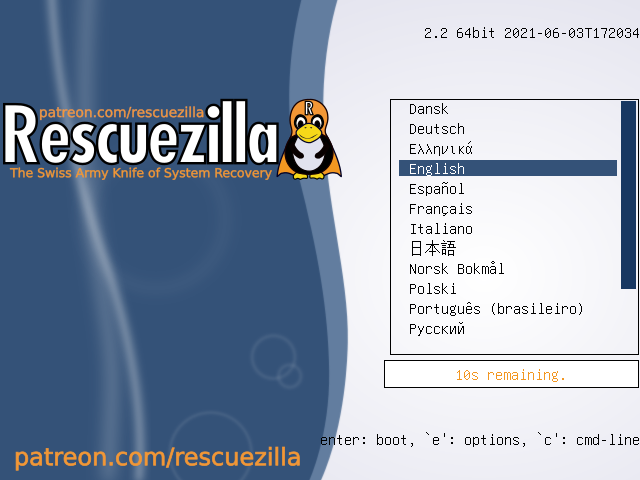
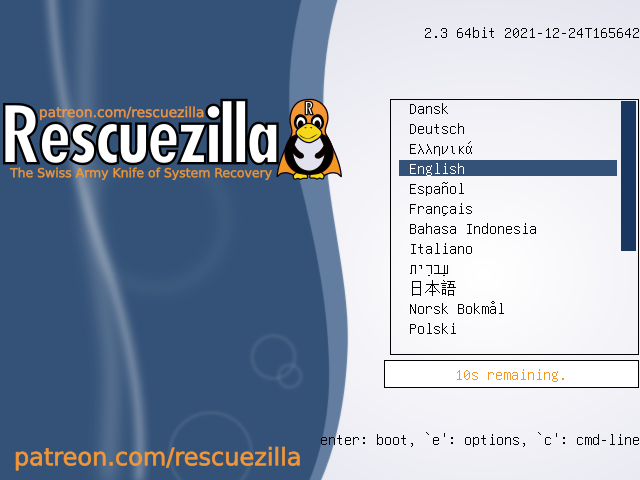
Updates webpage for Rescuezilla v2.3

diff --git a/download.html b/download.html
@@ -48,8 +48,8 @@
 <h2><strong>Getting Started</strong></h2>
 <div class="faq rounded">
 <h3>1. Download the latest live image</h3>
-<p>Download the latest 64-bit version of Rescuezilla: <strong><a href="https://github.com/rescuezilla/rescuezilla/releases/download/2.2/rescuezilla-2.2-64bit.hirsute.iso">rescuezilla-2.2-64bit.hirsute.iso</a></strong> (recommended).</p>
-<p>Note: There has been reports of the new Hirsute version having trouble reaching the desktop. One option is to try choosing the 'Graphical Fallback Mode' item from the boot menu (after selecting a language). Another alternative is to try the Rescuezilla v2.2 version based on the Ubuntu 20.04 (Focal) operating system which may be able to boot more reliably than the default Ubuntu 21.04 version. You can find the 'Focal' version at the <a target="_blank" href="https://github.com/rescuezilla/rescuezilla/releases/latest">bottom of the GitHub release page under the 'Assets' section</a>.</p>
+<p>Download the latest 64-bit version of Rescuezilla: <strong><a href="https://github.com/rescuezilla/rescuezilla/releases/download/2.3/rescuezilla-2.3-64bit.impish.iso">rescuezilla-2.3-64bit.impish.iso</a></strong> (recommended).</p>
+<p>Note: There has been reports of the Impish version having trouble reaching the desktop. One option is to try choosing the 'Graphical Fallback Mode' item from the boot menu (after selecting a language). Another alternative is to try the Rescuezilla v2.3 version based on the Ubuntu 20.04 (Focal) operating system which may be able to boot more reliably than the default Ubuntu 21.10 version. You can find the 'Focal' version at the <a target="_blank" href="https://github.com/rescuezilla/rescuezilla/releases/latest">bottom of the GitHub release page under the 'Assets' section</a>.</p>
 <p>Checkout the Rescuezilla GitHub release page for information about <a href="https://github.com/rescuezilla/rescuezilla/releases/latest">what's new, backwards compatibility, and any bug advisories</a>.</p>
 </p>
 <h3>2. Write the image to a USB</h3>

diff --git a/help.html b/help.html
@@ -48,7 +48,7 @@
 <div class="faq rounded">
   <h3>Q: When I boot the Rescuezilla USB stick after the language selection screen it is starting up but consistently reaches a blank screen rather than the desktop.</h3>
   <p>If the Rescuezilla USB stick fails to boot to the desktop, try choosing the 'Graphical Fallback Mode' item from the boot menu (after selecting a language).</p>
-  <p>Graphical Fallback Mode at least provides a low-resolution Rescuezilla environment on systems where the graphics drivers may not be available. Another alternative is to try the Rescuezilla v2.2 version based on the Ubuntu 20.04 (Focal) operating system which may be able to boot more reliably than the default Ubuntu 21.04 version. You can find this download at the <a target="_blank" href="https://github.com/rescuezilla/rescuezilla/releases/latest">bottom of the GitHub release page under the 'Assets' section</a>.</p>
+  <p>Graphical Fallback Mode at least provides a low-resolution Rescuezilla environment on systems where the graphics drivers may not be available. Another alternative is to try the Rescuezilla v2.3 version based on the Ubuntu 20.04 (Focal) operating system which may be able to boot more reliably than the default Ubuntu 21.10 version. You can find this download at the <a target="_blank" href="https://github.com/rescuezilla/rescuezilla/releases/latest">bottom of the GitHub release page under the 'Assets' section</a>.</p>
 </div>
 <div class="faq rounded">
   <h3>Q: Does Rescuezilla support restoring and cloning to <em>smaller</em> disk? Eg, 1000GB HDD to 500GB SSD</h3>

diff --git a/index.html b/index.html
@@ -53,8 +53,8 @@
 <div id="intro" class="graybox rounded">
 <div style="text-align: center;"><img width="677" height="173" border="0" alt="bare metal backup and restore" src="./media/intro.jpg" /></div>
 <center><a class="bluebox rounded" id="downloadbox" href="./download">
-<h2>Download Version 2.2</h2>
-<div style="text-align: center;">Released 2021-06-04</div>
+<h2>Download Version 2.3</h2>
+<div style="text-align: center;">Released 2021-12-24</div>
 </a> </center></div>
 <p><strong><a target="_blank" href="https://www.patreon.com/join/rescuezilla">All users should consider contributing $1/month on the crowdfunding website Patreon so that <strong>Rescuezilla</strong> can continue to be developed.</a></strong></p>
 <h2 style="clear: left;">More Features, Less Complex</h2>
